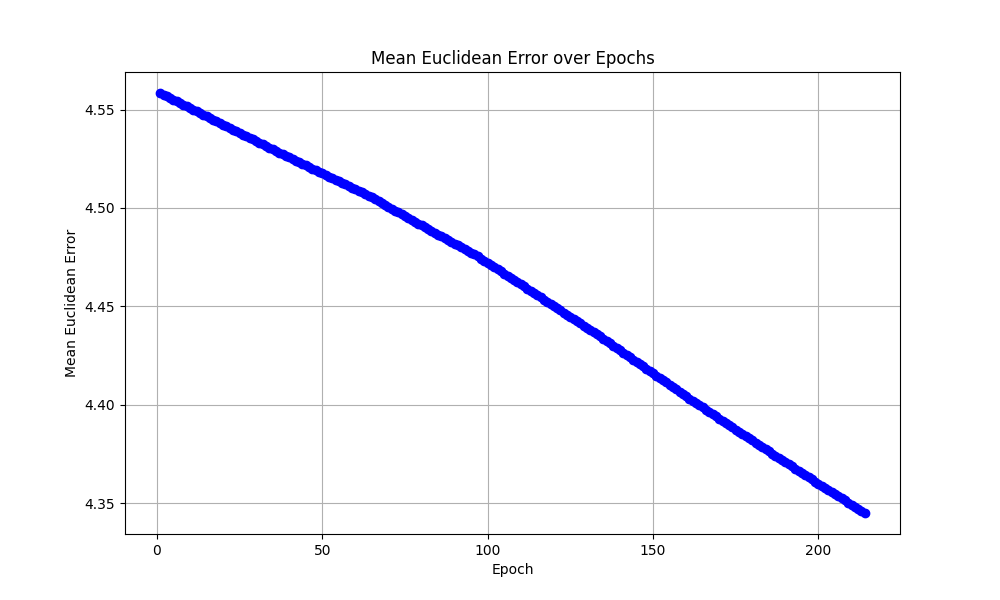
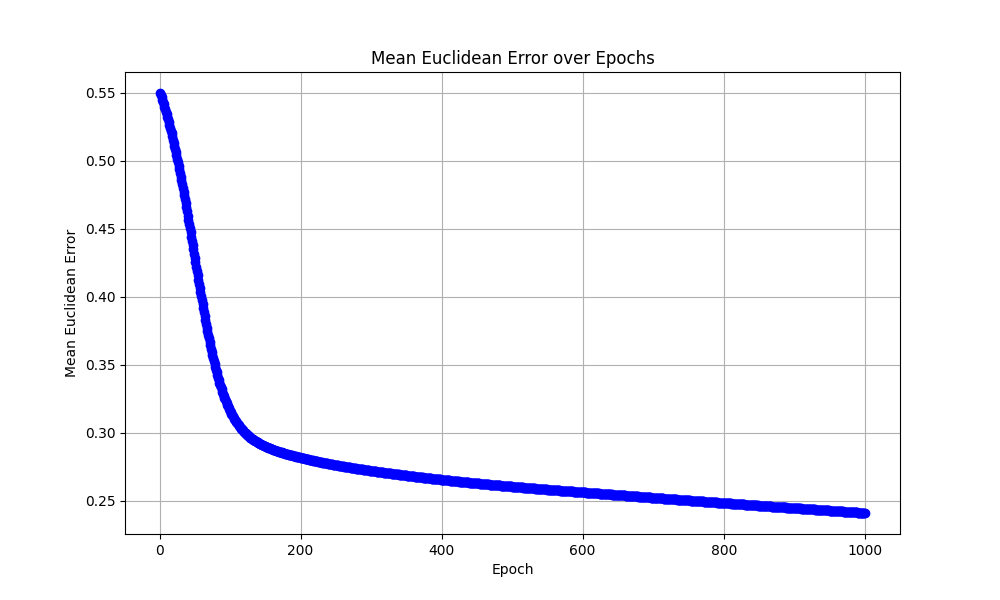
Aggiustato un po di problemi, tipo la lettura dei training set era sbagliata

diff --git a/config.py b/config.py
@@ -9,8 +9,8 @@ PATH_DT = "../data/training_data/monks-1.train"
 MONK= True #<- toggle per il monk
 
 # ======== UNITS SIZE ========
-N_HIDDENL1 = 4
-N_HIDDENL2 = 2
+N_HIDDENL1 = 16
+N_HIDDENL2 = 8
 
 if MONK==True:
     N_OUTPUTS = 1
@@ -23,7 +23,7 @@ FUN_ACT = leaky_relu
 
 
 # ====== LEARNING RATE ======= #<- viene usato come valore centrale per la grid search
-LEARNING_RATE =  1e-3   #<- Funziona in batch ma da applicare il criterio di stop sennò scavalca il minimo
+LEARNING_RATE =  1e-2   #<- Funziona in batch ma da applicare il criterio di stop sennò scavalca il minimo
 #LEARNING_RATE = 0.000025
 
 # ========= BATCH ============
@@ -33,14 +33,14 @@ BATCH = True
 # --------------------- STOP CRITERIA:
 
 # ======== N EPOCHS ==========
-EPOCHS = 500 #usato anche per determinare il numero di epoche per ogni run di grid search, 3% epochs ogni run
+EPOCHS = 1000 #usato anche per determinare il numero di epoche per ogni run di grid search, 3% epochs ogni run
 # ======== Early Stopping oon/off =============
 EARLY_STOPPING = True
 # gradient_norm < EPSILON, quindi il gradiente non cresce abbastanza,
 # serve per lo stopping criteria come limite inferiore, in percentuale
 # ======== EPSILON ==========
 #EPSILON = 0.001
-EPSILON = 0.0001
+EPSILON = 0.0000001
 
 # Dopo quante epoche in cui non cresce il gradiente mi fermo
 # ======= PATIENCE ==========
@@ -54,7 +54,7 @@ ALPHA_MOM = 0.5 #<- viene usato come valore centrale per la grid search
 # --------------------- HOLD OUT VALIDATION (SPLIT = percentuale di pattern tenuti da parte per la validation
 
 RUN_HOLD_OUT_VALIDATION= True #toggle per runnare la validation in coda al training
-SPLIT = 20
+SPLIT = 40
 
 #------------------ Regolarizzazione
 LAMBDA=0.01

diff --git a/src/nn/nn.py b/src/nn/nn.py
@@ -103,7 +103,7 @@ class NN:
         #   aggiornata.
         #self.w_kj2[1:, :] += self.learning_rate * np.outer(self.x_j2, dk)
 
-        self.w_kj2 += self.learning_rate * delta_wk #- config.LAMBDA * self.w_kj2
+        self.w_kj2 -= self.learning_rate * delta_wk #- config.LAMBDA * self.w_kj2
         #self.w_kj2 -= self.learning_rate * (delta_wk + config.LAMBDA * self.w_kj2)
 
         # --- Aggiornamento Pesi Output (w_kj2) - Versione non vettorializzata ---
@@ -121,7 +121,7 @@ class NN:
 
         # --- Aggiornamento Pesi Hidden 2 (w_j2j1) - Versione vettorializzata ---
 
-        self.w_j2j1 += self.learning_rate * delta_wj2j1 #- config.LAMBDA * self.w_j2j1
+        self.w_j2j1 -= self.learning_rate * delta_wj2j1 #- config.LAMBDA * self.w_j2j1
         #self.w_j2j1 -= self.learning_rate * (delta_wj2j1 + config.LAMBDA * self.w_j2j1)
 
         # --- Aggiornamento Pesi Hidden 2 (w_j2j1) - Versione non vettorializzata ---
@@ -136,7 +136,7 @@ class NN:
 
         # --- Aggiornamento Pesi Hidden 1 (w_j1i) Versione vettorializzata ---
 
-        self.w_j1i += self.learning_rate * delta_wj1i#- config.LAMBDA * self.w_j1i
+        self.w_j1i -= self.learning_rate * delta_wj1i#- config.LAMBDA * self.w_j1i
         #self.w_j1i -= self.learning_rate * (delta_wj1i + config.LAMBDA * self.w_j1i)
 
         # --- Aggiornamento Pesi Hidden 1 (w_j1i) Versione non vettorializzata ---

diff --git a/src/utils/load_data.py b/src/utils/load_data.py
@@ -14,20 +14,20 @@ def load_data(path) -> tuple[pd.DataFrame, pd.DataFrame] :
 
 
 def load_monks_data(path) -> tuple[pd.DataFrame, pd.Series]:
-    data = pd.read_csv(path, delimiter=' ', header=None, usecols=range(7))
+    data = pd.read_csv(path, sep=r'\s+', header=None)
 
-    X_raw = data.iloc[:, :-1]
-    y = data.iloc[:, -1]  # 0/1 target
-
-    X_raw.columns = [f'feature_{i}' for i in range(1, 7)]
+    y = data.iloc[:, 0].astype(float)
     y.name = 'target'
 
+
+    X_raw = data.iloc[:, 1:7]
+    X_raw.columns = [f'feature_{i}' for i in range(1, 7)]
+
+    # one-hot encoding
     X = pd.get_dummies(X_raw, columns=X_raw.columns)
 
-    X = X.astype(float)
-    y = y.astype(float)
+    return X.astype(float), y
 
-    return X, y
 
 
 

diff --git a/src/training/backward/backprop.py b/src/training/backward/backprop.py
@@ -25,7 +25,7 @@ def delta_k(d: Array1D, x_k: Array1D) -> Array1D:
 
     # Aggiorna il vettore deltak con la differenza tra target e previsione * la derivata della funzione lineare quindi 1
     #dk = (d - x_k) # * 1 # <- Versione vettorializzata
-    dk = (d - x_k) * sigmoid.sigmaf(x_k, 1, True)  # <- per activation function sigmoide nell'output layer (MONK PROBLEMS)
+    dk = (x_k - d) * x_k * (1 - x_k)   # <- per activation function sigmoide nell'output layer (MONK PROBLEMS)
     """
     for kunit in range(x_k.size):
         # Aggiorna il vettore deltak con la differenza tra target e previsione * la derivata della funzione lineare quindi 1

diff --git a/scripts/run_validation.py b/scripts/run_validation.py
@@ -42,4 +42,6 @@ def validation_monk(validation_set, validation_d, w_j1i, w_j2j1, w_kj2):
         else:
             misclassified += 1
     print("classificati correttamente:",correctly_classified," errori:",misclassified, "accuratezza:",correctly_classified/(correctly_classified + misclassified)* 100,"%")
+    print("validation targets:",validation_d)
+    print("prediction values:",prediction)
     return correctly_classified,misclassified

diff --git a/scripts/run_training.py b/scripts/run_training.py
@@ -18,9 +18,8 @@ x_i = x_i.to_numpy().astype(np.float64)
 d = d.to_numpy().astype(np.float64)
 
 if config.MONK:
-    min_val_x = x_i.min(axis=0)
-    max_val_x = x_i.max(axis=0)
-    x_i = (x_i - min_val_x) / (max_val_x - min_val_x)
+
+    pass
 
 else:
     min_val_x = x_i.min(axis=0)
